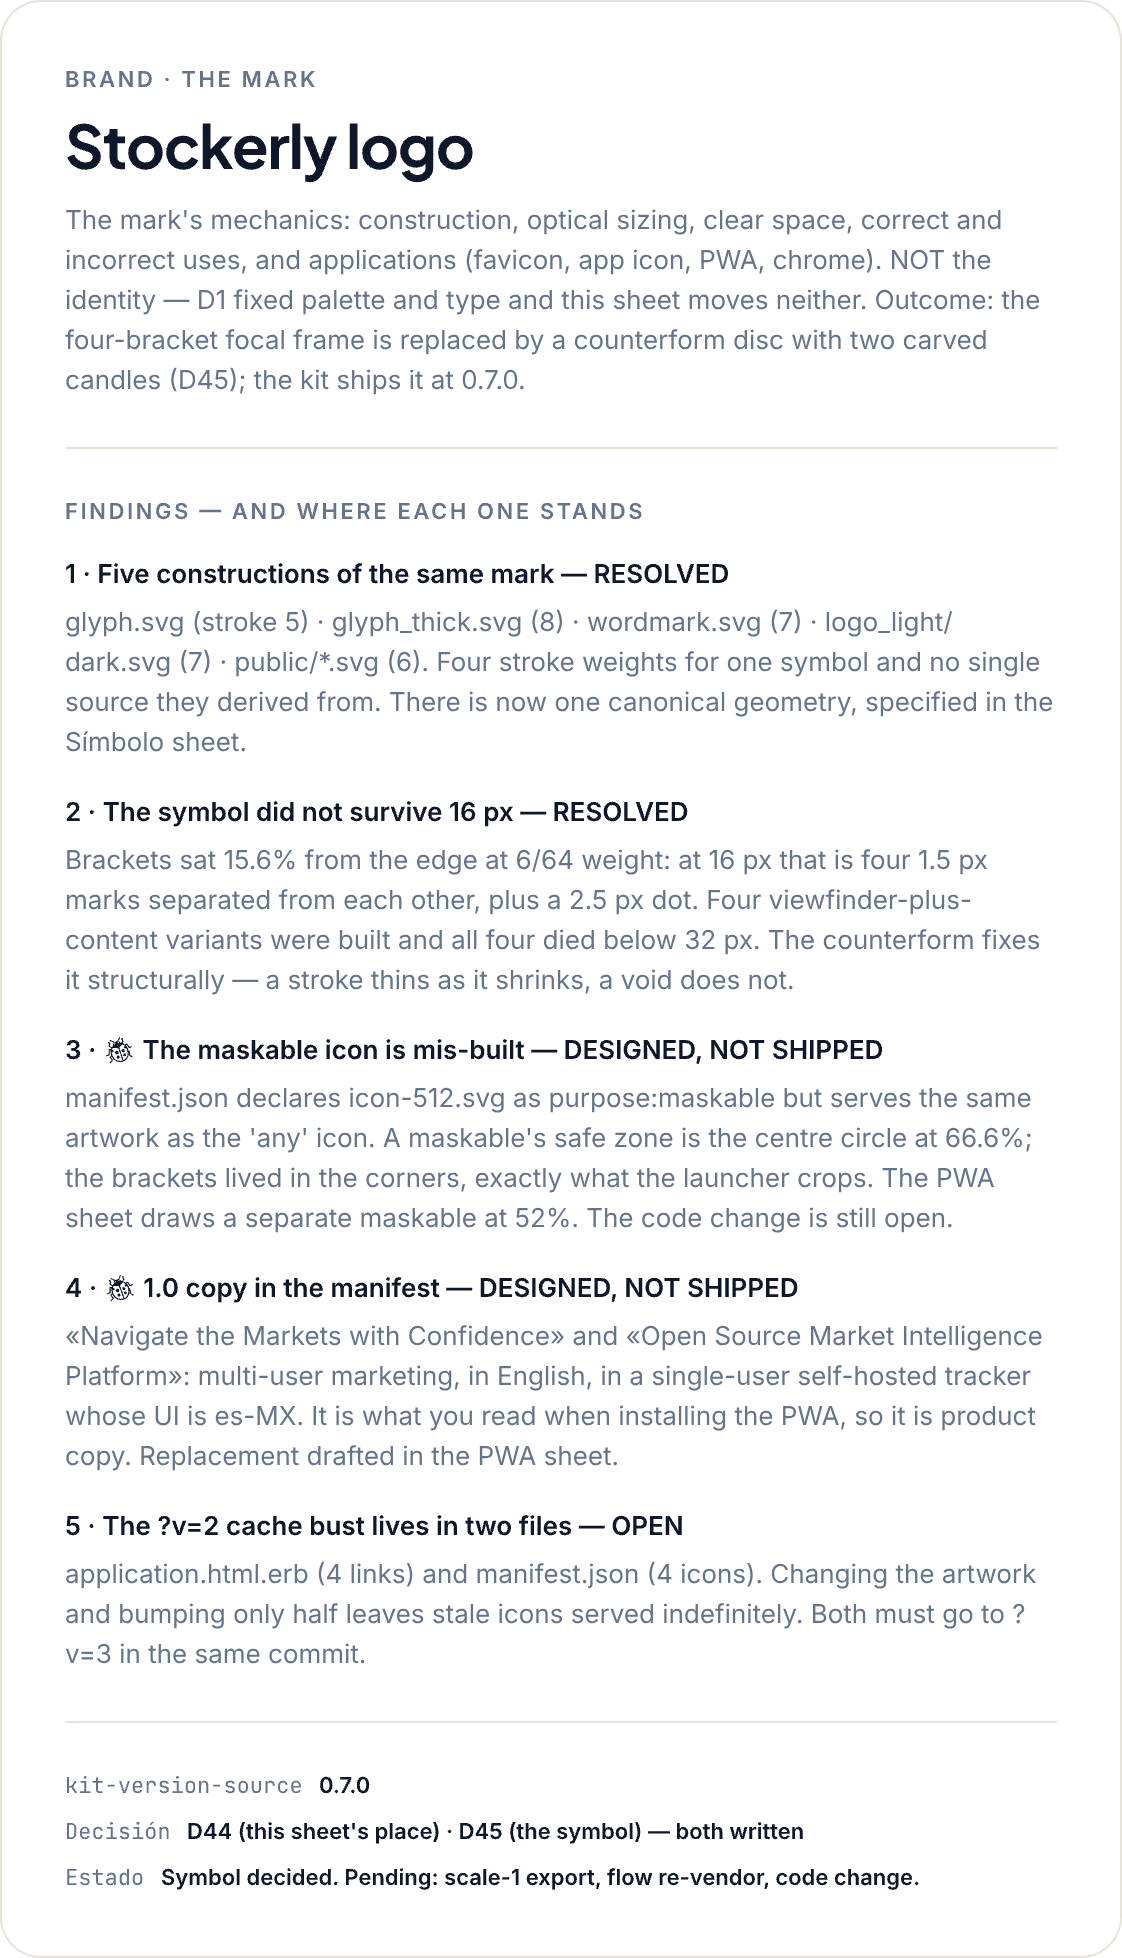
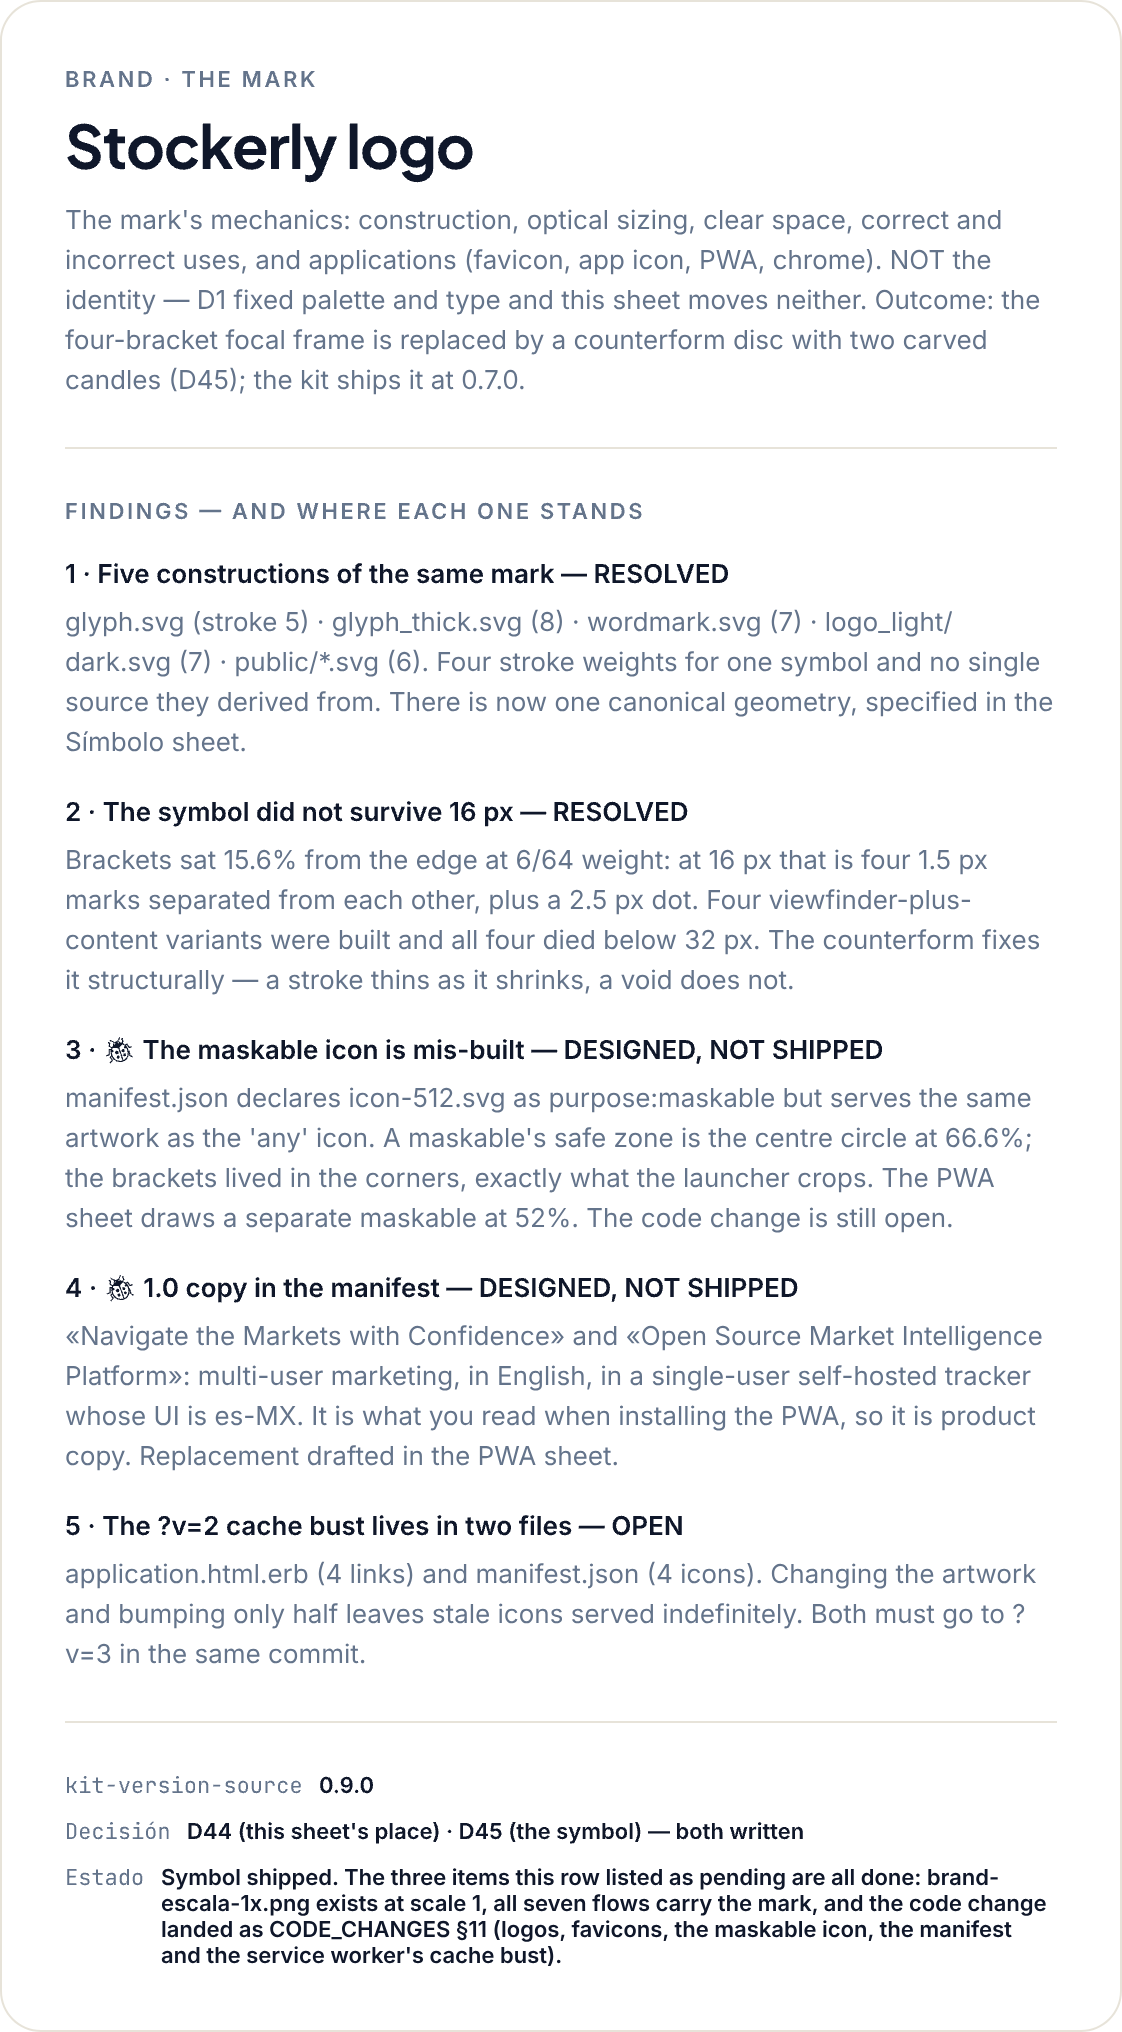
Bring brand.pen current, and fix the divergence hygiene was hiding
Billed as hygiene only. Measuring found a divergence and three stale
claims.

brand.pen DIVERGED on info-fg, holding the old dark #7B89FF against the
kit's #9098FF. That is not being behind -- the method allows behind and
forbids diverging -- and the consistency sweep missed it, because that
sweep checked token membership on the migrated flows and value equality
only on auth. onboarding.pen had the same divergence and is fixed with it
although its own migration has not run: a wrong value is a defect now, a
missing one is only a schedule.

The row whose entire job is to state the version stated the wrong one:
Brand / Brief > Meta > kit-version-source read 0.7.0 while the variable
read 0.6.0. Eighth self-contradiction of this migration, and the purest --
not a brief describing its file loosely, but a labelled field disagreeing
with the value it labels.

The Estado row listed three pending items and all three were already done.
brand-escala-1x.png exists and measures 1236x222, the frame's own size, so
scale 1 confirmed rather than assumed; all seven flows carry the mark; the
code change landed as CODE_CHANGES 11.

Caught while writing this and it would have been mine: alerts.pen's brief
said kit-version-source 0.8.1 against a variable reading 0.9.0, created
earlier the same day when HeaderBar was promoted and the variable moved
without the prose.

The ledger's own status table had drifted too -- 0.8.0 on six rows and n/a
[…]

Changed region(s): [[0.0624, 0.2492, 0.9358, 0.9658], [0.0624, 0.0312, 0.9358, 0.2181]]

diff --git a/design/MIGRATION.md b/design/MIGRATION.md
@@ -24,16 +24,27 @@ Kit **0.8.0** is not additive in practice even though it renames nothing:
 
 | File | kit | Done | Pending |
 |---|---|---|---|
-| `ui-kit.lib.pen` | **0.8.0** | ✅ merged | — |
-| `flows/assets.pen` | **0.8.0** | ✅ PR #368 | — |
-| `flows/cockpit.pen` | **0.8.0** | ✅ shell · tokens · brief · exports | 3 items, one of them an owner's call |
-| `flows/auth.pen` | **0.8.0** | ✅ done | — |
-| `flows/alerts.pen` | **0.9.0** | ✅ done | — |
-| `flows/settings.pen` | **0.9.0** | ✅ done | — |
-| `flows/discover.pen` | **0.8.0** | ✅ done | — |
+| `ui-kit.lib.pen` | **0.9.0** | ✅ | — |
+| `flows/assets.pen` | **0.8.1** | ✅ | — |
+| `flows/cockpit.pen` | **0.8.1** | ✅ | 3 items, one an owner's call |
+| `flows/auth.pen` | **0.8.1** | ✅ | — |
+| `flows/alerts.pen` | **0.9.0** | ✅ | — |
+| `flows/settings.pen` | **0.9.0** | ✅ | — |
+| `flows/discover.pen` | **0.8.1** | ✅ | — |
 | `flows/onboarding.pen` | 0.7.0 | — | TOTP lands in the wizard (D52): nine artboards move |
-| `_playground.pen` | **0.8.0** | ✅ installed + Panel · V1…V4 | — |
-| `brand.pen` | n/a | — | hygiene only |
+| `_playground.pen` | **0.8.1** | ✅ | — |
+| `brand.pen` | **0.9.0** | ✅ | — |
+
+> **This table drifted, and it is worth naming rather than silently correcting.** Until 2026-08-27
+> it read `0.8.0` on six rows and `n/a` on `brand.pen`. The per-flow *Done* column was maintained
+> and the `kit` column was not: when the kit went 0.8.0 → 0.8.1 → 0.9.0, the consumers were
+> re-vendored and the table was not. **A registry that records a version has to be re-read from the
+> variable, not from what the last edit remembered** — the same failure D53 is parked about, in the
+> file that documents the failure. Every value above was read from `GetVariables()`.
+>
+> **Rows at different versions are not drift.** `0.8.1` was a token-and-treatment patch every
+> consumer took; `0.9.0` added `HeaderBar`, so only the two flows that vendor it moved. Behind is
+> allowed; diverging is not.
 
 ---
 
@@ -200,31 +211,32 @@ component update rather than a consolidation.
 - **It became the large one.** D52 puts a skippable TOTP step in the wizard, so the `Stepper`
   gains a stage and all nine artboards move.
 
-## `brand.pen`
+## `brand.pen` — done 2026-08-27, on 0.9.0
 
-- Hygiene only, and now unblocked: D45/D46/D47 were duplicated in the registry and are fixed.
-- `Actual / Símbolo` keeps the retired four-bracket mark **on purpose** — it is the "before".
-- If `F2 / … › Escala` is re-exported it must go at `scale: 1`. It is a measurement, not a review
-  artifact: at 2× a "16 px" sample renders 32 px and flatters itself.
+Billed as *"hygiene only"*. Measuring found a divergence and three stale claims, which is more than
+hygiene.
 
----
-
-## Kit gaps found while migrating — for the next bump
-
-- **`TopBar` has no count badge.** The kit ships `UnreadDot`, an 8px dot. `alerts.pen` draws a
-  numbered badge because it is the flow that owns the inbox, and a count says more than a dot. It
-  stays local. If a second flow wants the number, the variant is earned.
-
-- **`NavRow` has no recommended/primary state.** Found vendoring it into `assets.pen`: three copies
-  had drifted ~6% larger and snapped back, but a fourth carried a deliberate `$primary` accent
-  because it is the recommended path out of an empty portfolio. It ships as an instance override.
-  If a second flow needs it, that override has earned a variant.
-
-- **The kit has no detail `TopBar`.** It ships the root bar (`Brand`/`Bell`) only, so `cockpit.pen`
-  vendored `TopBarDetail` (`Back`/`Title`+`Sub`/`Bookmark`) locally. Not promoted — the method says
-  do not promote unasked. `auth.pen`, `alerts.pen` and `settings.pen` all have back-navigation
-  screens; if any of them needs the same bar, that is the second consumer and the promotion is
-  earned. Its `Bookmark` slot is asset-specific and would come off in a kit version.
+- ✅ 🐞 **It DIVERGED on `info-fg`**, holding the old dark `#7B89FF` against the kit's `#9098FF`. Not
+  "behind" — the method allows behind and forbids diverging — and the consistency sweep missed it,
+  because that sweep checked token **membership** on the migrated flows and value equality only on
+  `auth`. **`flows/onboarding.pen` had the same divergence** and was fixed with it although its own
+  migration has not run: a wrong value is a defect now, a missing one is only a schedule.
+- ✅ 🐞 **The row whose entire job is to state the version stated the wrong one.** `Brand / Brief ›
+  Meta › kit-version-source` read **0.7.0** while the variable read **0.6.0**. Both read 0.9.0 now.
+  That is the **eighth** self-contradiction this migration turned up, and the purest: not a brief
+  describing its file loosely, but a labelled field disagreeing with the value it labels.
+- ✅ 🐞 **The `Estado` row listed three pending items and all three were already done.** *"Pending:
+  scale-1 export, flow re-vendor, code change."* `brand-escala-1x.png` exists and measures 1236×222
+  — the frame's own size, so `scale: 1` confirmed rather than assumed; all seven flows carry the
+  mark; and the code change landed as `CODE_CHANGES.md` §11.
+- ✅ The 14 tokens installed. `F2 / Usos` is the only sheet touching the `info` pair and it
+  re-exported **byte-identical** — only `info-fg`'s dark value moved and exports render light. Two
+  PNGs changed, not eight.
+- ✅ 🐞 **Caught while writing this: `alerts.pen`'s brief said `kit-version-source 0.8.1` against a
+  variable reading 0.9.0** — created earlier the same day when `HeaderBar` was promoted and the
+  variable was bumped without the prose. Fixed. It would have been the ninth contradiction, and mine.
+- **`Actual / Símbolo` keeps the retired four-bracket mark on purpose** — it is the "before", and the
+  ledger was right about that one.
 
 ## Cross-flow consistency sweep — 2026-08-27
 

diff --git a/design/README.md b/design/README.md
@@ -30,7 +30,7 @@ _Listing verified against the directory 2026-08-27._
 | `ui-kit.lib.pen` | **The design library** — tokens (our `@theme` contract) + components. Currently **0.9.0, 20 components** |
 | `ui-kit.CHANGELOG.md` | Kit versions and what each bump changed |
 | `flows/*.pen` | **One file per domain** — seven of them today (`auth`, `onboarding`, `cockpit`, `assets`, `alerts`, `settings`, `discover`) |
-| `brand.pen` | The identity sheet (D44/D45) — sheets, not `[Flow] / Screen / State` artboards. Not a flow, which is why it has its own file and its own export section |
+| `brand.pen` | The identity sheet (D44/D45) — sheets, not `[Flow] / Screen / State` artboards. Not a flow, which is why it has its own file and its own export section. **On kit 0.9.0 since 2026-08-27** |
 | `brand/` | The exported identity assets the repo consumes: `glyph.svg`, `wordmark.svg`, `wordmark.png` |
 | `_playground.pen` | Experiments — inside the system (kit installed at 0.8.0 on 2026-08-27; holds `Panel · V1…V4`, the login brand-panel exploration) |
 | `DECISIONS.md` | The numbered findings/decisions registry the `.pen` briefs cite |
